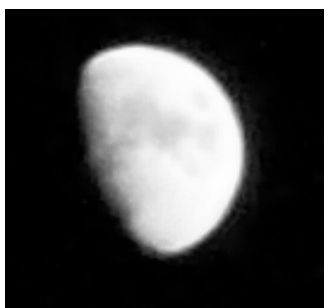
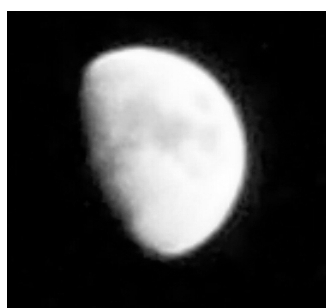
further implementation (math stuff, don't know how to say that)

Changed region(s): [[0.0, 0.0292, 0.9851, 1.0], [0.4776, 0.3214, 0.7463, 0.8474], [0.209, 0.1169, 0.5672, 0.3214]]

diff --git a/his.py b/his.py
@@ -14,12 +14,50 @@ def create_hi_res_img(base_img, zoom):
     new_size = (base_img.size[0]*zoom, base_img.size[1]*zoom)
     return img.resize(new_size, Image.ANTIALIAS)
 
+def update_by_backprojection(hi_res_img, low_res_images, c):
+    for i in low_res_images:
+        z = i.resize(hi_res_img.size, Image.ANTIALIAS)
+
+        for x in range(1, hi_res_img.size[0]-30):
+            for y in range(1, hi_res_img.size[1]-30):
+                (fo,_,_) = hi_res_img.getpixel((x,y))
+
+                small = 0.2125
+                v = 0.0
+                # center
+                (fi,_,_) = z.getpixel((x,y)) 
+                v += (fo-fi) * 1.0 / (c*small*4)
+                # down
+                (fi,_,_) = z.getpixel((x,y+1)) 
+                v += (fo-fi) * small*small / (c*small*4)
+                # up
+                (fi,_,_) = z.getpixel((x,y-1)) 
+                v += (fo-fi) * small*small / (c*small*4)
+                # left
+                (fi,_,_) = z.getpixel((x+1,y)) 
+                v += (fo-fi) * small*small / (c*small*4)
+                # right
+                (fi,_,_) = z.getpixel((x-1,y)) 
+                v += (fo-fi) * small*small / (c*small*4)
+
+
+
+
+                v = int(v)
+
+                hi_res_img.putpixel((x, y), (fo+v, fo+v, fo+v))
+
+    return hi_res_img
+
+
+
 def main():
     # TODO this should be moved to config file or read from command line
     low_res_files = ['moon1.JPG', 'moon2.JPG']
     output_file = 'output.JPG'
     zoom = 2
-    c = 2.2
+    iterations = 5
+    c = 6.13
 
     low_res_images = load_images(low_res_files)
 
@@ -27,18 +65,8 @@ def main():
     # resolution image, we need to resize it by zoom factor
     hi_res_img = create_hi_res_img(low_res_images[0], zoom)
 
-    for i in low_res_files:
-        z = i.resize(bigger_size, Image.ANTIALIAS)
-
-        for x in range(0, estimated.size[0]-30):
-            for y in range(0, estimated.size[1]-30):
-                (fo,_,_) = estimated.getpixel((x,y))
-                (fi,_,_) = z.getpixel((x,y)) 
-
-                v = int((fo-fi)*c)
-                estimated.putpixel((x, y), (fo+v, fo+v, fo+v))
-       
-
+    for i in range(0, iterations):
+        hi_res_img = update_by_backprojection(hi_res_img, low_res_images, c)
 
     hi_res_img.save(output_file)
 
